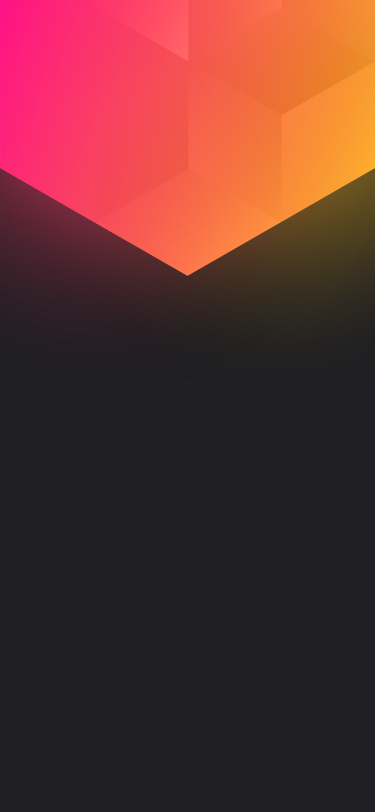
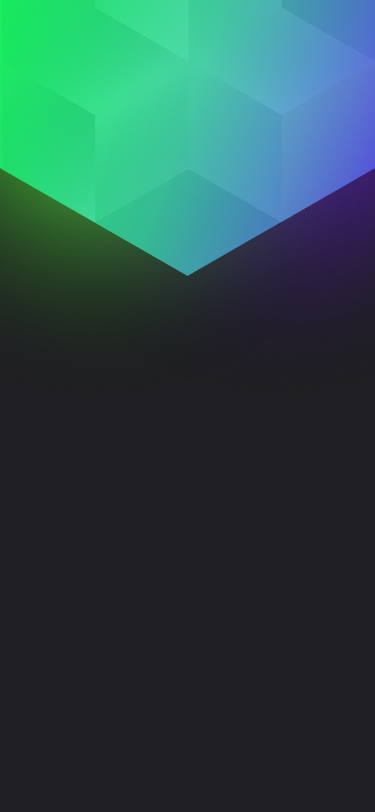
Adionando Animações

diff --git a/index.html b/index.html
@@ -17,38 +17,39 @@
     />
   </head>
   <body>
+    <div class="lights lightTop1"></div>
+    <div class="lights lightTop2"></div>
     <main>
-      <div class="containerGlobal">
-        <div class="container">
-          <div class="avatar">
-            <span>
-              <img src="images/build.svg" alt="Selo Rocketseat" />
-            </span>
-            <img id="userImagem" src="" alt="Foto Pessoal" />
-          </div>
-
-          <h1 id="userName"></h1>
-          <a id="userLink" href="" target="_blank">
-            <img src="images/github.svg" alt="ícone github" />
-            <span id="userLogin"></span
-          ></a>
-          <p id="userBio"></p>
-          <ul id="socialLinks">
-            <li class="facebook">
-              <a href="" target="_blank">
-                <img src="images/facebook.svg" alt="ícone facebook" />
-              </a>
-            </li>
-            <li class="instagram">
-              <a href="" target="_blank">
-                <img src="images/instagram.svg" alt="ícone instagram" />
-              </a>
-            </li>
-          </ul>
+      <div class="container">
+        <div class="avatar">
+          <span>
+            <img src="images/build.svg" alt="Selo Rocketseat" />
+          </span>
+          <img id="userImagem" src="" alt="Foto Pessoal" />
         </div>
+
+        <h1 id="userName"></h1>
+        <a id="userLink" href="" target="_blank">
+          <img src="images/github.svg" alt="ícone github" />
+          <span id="userLogin"></span
+        ></a>
+        <p id="userBio"></p>
+        <ul id="socialLinks">
+          <li class="facebook">
+            <a href="" target="_blank">
+              <img src="images/facebook.svg" alt="ícone facebook" />
+            </a>
+          </li>
+          <li class="instagram">
+            <a href="" target="_blank">
+              <img src="images/instagram.svg" alt="ícone instagram" />
+            </a>
+          </li>
+        </ul>
       </div>
     </main>
-
+    <div class="lights lightBottom1"></div>
+    <div class="lights lightBottom2"></div>
     <script src="main.js"></script>
   </body>
 </html>

diff --git a/style.css b/style.css
@@ -1,5 +1,8 @@
 * {
   margin: 0;
+  overflow-x: hidden;
+  overflow-y: hidden;
+  z-index: 1;
 }
 
 html,
@@ -38,7 +41,7 @@ main {
 .avatar span {
   position: absolute;
   top: -15px;
-  z-index: 1;
+  z-index: 2;
 }
 
 .avatar > img {
@@ -95,13 +98,61 @@ ul {
 
 @media (min-width: 481px) {
   body {
-    background: url(images/background2.png) no-repeat center/cover;
     background-color: black;
   }
 
+  .lights {
+    position: absolute;
+    z-index: 0;
+  }
+
+  @keyframes moveSide1 {
+    from {
+      transform: translateX(-300px);
+    }
+  }
+
+  .lightTop1 {
+    top: 0;
+    background: url(images/degradeTop1.png) no-repeat;
+    width: 1118px;
+    height: 400px;
+    animation: moveSide1 4s ease-in-out infinite alternate;
+  }
+
+  @keyframes moveSide2 {
+    from {
+      transform: translateX(300px);
+    }
+  }
+
+  .lightTop2 {
+    top: 0;
+    background: url(images/degradeTop2.png) no-repeat;
+    width: 1118px;
+    height: 400px;
+    animation: moveSide2 4s ease-in-out infinite alternate;
+  }
+
+  .lightBottom1 {
+    bottom: 0;
+    background: url(images/degradeBottom1.png) no-repeat;
+    width: 1118px;
+    height: 400px;
+    animation: moveSide1 4s ease-in-out infinite alternate;
+  }
+
+  .lightBottom2 {
+    bottom: 0;
+    background: url(images/degradeBottom2.png) no-repeat;
+    width: 1118px;
+    height: 400px;
+    animation: moveSide2 4s ease-in-out infinite alternate;
+  }
+
   main {
-    width: 358px;
-    height: 540px;
+    width: 22.3rem;
+    height: 33.7rem;
   }
 
   .avatar {
